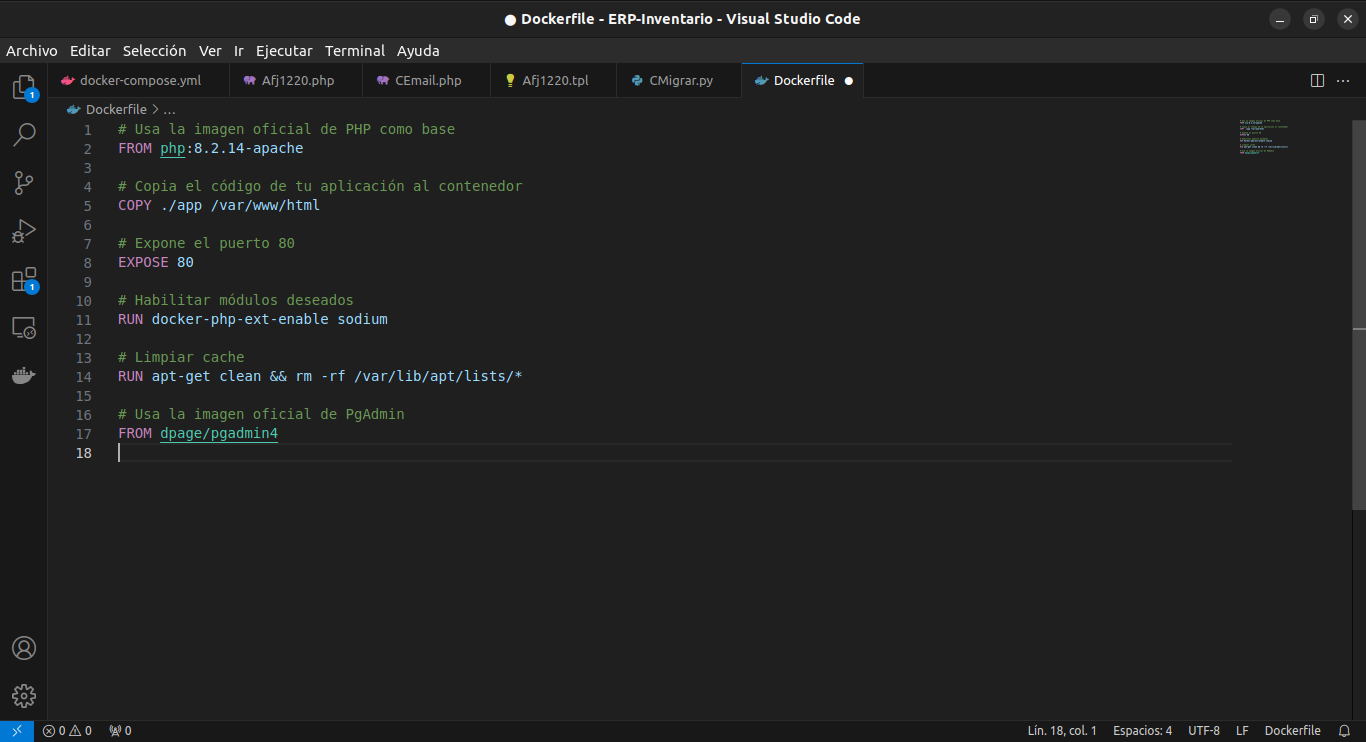
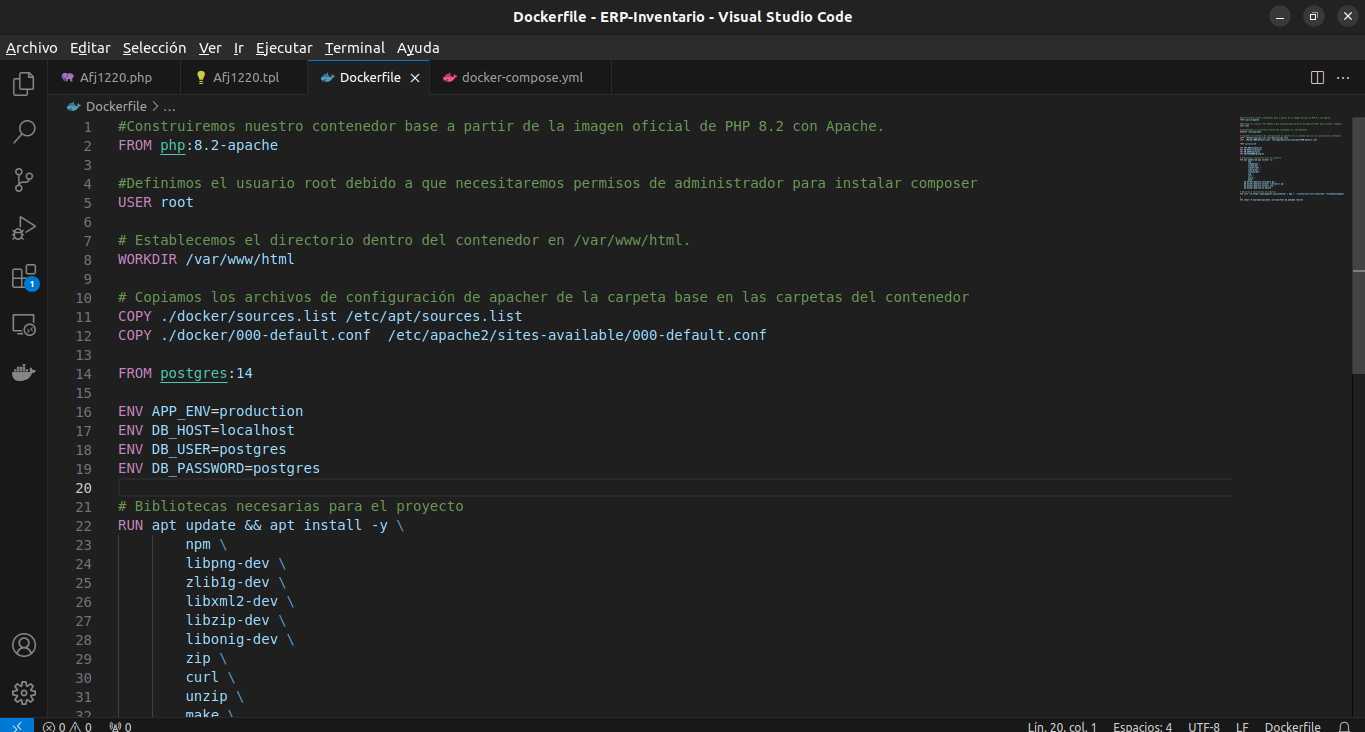
update hito3: configuracion de contenedor base

diff --git a/Docs/Hito3.md b/Docs/Hito3.md
@@ -2,7 +2,11 @@
 
 ## Elección de un contenedor base
 
-Para esta parte del proyecto se eligió un contenedor base para el proyecto en PHP y PgAdmin. Se utilizara PHP Docker Image, el cual nos permite utilizar la imagen oficial de PHP desde Docker Hub; y de la misma manera con postgres ya que es el sistema de gestión de bases de datos relacionales de objetos que usaremos para el proyecto.
+Para esta parte del proyecto se eligió un contenedor base para el proyecto en PHP y PgAdmin. 
+
+Se utilizará una imagen PHP, que proporciona un entorno de ejecución PHP estandarizado y reproducible. Esto es crucial para asegurar que tu aplicación se ejecute de la misma manera en diferentes entornos, ya sea en desarrollo, pruebas o producción. También puedes aprovechar la integración con otros servicios de Docker, como bases de datos, servidores web y sistemas de orquestación de contenedores.
+
+La imagen oficial de PostgreSQL nos proporcionará un entorno de base de datos estandarizado y reproducible; la imagen de PostgreSQL generalmente viene preconfigurada con las opciones más comunes y recomendadas para un entorno de base de datos PostgreSQL.
 
 Realizar la instalación de dichas imagenes
 
@@ -17,27 +21,57 @@ Aqui comprobaremos que las imagenes se encuentran dentro del contenedor
 ![Hito3_5](img/Hito3_5.png)
 
 
+## Configuración del contenedor
 
+### Archivo Dockerfile
 
-Primero realizara la configuración del Dockerfile con PHP 8.2.14 con Apache y Dockerfile para PgAdmin:
+Creamos el archivo Dockerfile para realizar la configuración de PHP
+
+ - Construiremos nuestro contenedor base a partir de la imagen oficial de PHP 8.2.
+ 
+![Hito3_6](img/Hito3_6.png)
+
+ - Definimos el usuario root debido a que necesitaremos permisos de administrador para instalar composer.
+ 
+![Hito3_7](img/Hito3_7.png)
+
+ - Establecemos el directorio dentro del contenedor en /var/www/html.
+ 
+![Hito3_8](img/Hito3_8.png)
+
+ - Copiamos los archivos de configuración de apacher de la carpeta base en las carpetas del contenedor
+ 
+![Hito3_9](img/Hito3_9.png)
+
+ - Construiremos contenedor a partir de la imagen postgres
+ 
+![Hito3_10](img/Hito3_10.png)
+
+ - Definición de variables de entorno:
+ 
+![Hito3_11](img/Hito3_11.png)
+
+Asi quedaria el archivo [Dockerfile](https://github.com/gabrielacampoverde/CC_Gabriela/blob/main/ERP-Inventario/Dockerfile)
 
 ![Hito3_0](img/Hito3_0.png)
 
-Luego pasaremos a la configuración de docker-compose.yml, como se muestra en la siguiente imagen
+### Archivo docker-compose.yml
+
+Luego pasaremos a la configuración de [docker-compose.yml](https://github.com/gabrielacampoverde/CC_Gabriela/blob/main/ERP-Inventario/docker-compose.yml).
+
+- El servicio php-apache utiliza la imagen oficial de PHP con Apache y expone el puerto 80.
+
+![Hito3_12](img/Hito3_12.png)
+
+- El servicio pgadmin utiliza la imagen oficial de pgAdmin4, se ha configurado con un usuario y contraseña.
+
+![Hito3_13](img/Hito3_13.png)
+
+El archivo final para [docker-compose.yml](https://github.com/gabrielacampoverde/CC_Gabriela/blob/main/ERP-Inventario/docker-compose.yml) es el siguiente.
 
 ![Hito3_0](img/Hito3_1.png)
 
 
 
-## Elección de un contenedor base
 
-
-    
-  - **Primero:** Se instala el framework [PHPUnit](https://linux.how2shout.com/3-ways-to-install-phpunit-in-ubuntu-22-04-or-20-04-lts/)
-  - **Segundo:** Verificar si la instación fue exito con el siguiente comando **$ phpunit --version**
-  
-
-   - Opción Afj1020.php
-     
-   ![Test4](img/Test4.png)
 

diff --git a/README.md b/README.md
@@ -28,7 +28,7 @@ Tambien se explicara la creación de los primeros test.
 
 ## Hito 3. Creación de un contenedor para pruebas
 
-Para el [hito 3] (https://github.com/gabrielacampoverde/CC_Gabriela/blob/main/Docs/Hito3.md) se realizara la creación de un contenedor para pruebas, el cual se utiliza herramienta de contenerización como Docker. Docker permite empaquetar una aplicación y todas sus dependencias en un contenedor, lo que facilita la creación de entornos de prueba consistentes y reproducibles.
+Para el [hito 3](https://github.com/gabrielacampoverde/CC_Gabriela/blob/main/Docs/Hito3.md) se realizara la creación de un contenedor para pruebas, el cual se utiliza herramienta de contenerización como Docker. Docker permite empaquetar una aplicación y todas sus dependencias en un contenedor, lo que facilita la creación de entornos de prueba consistentes y reproducibles.
 
  - Elección de un contenedor base.
  - Instalación de paquetes adicionales 
